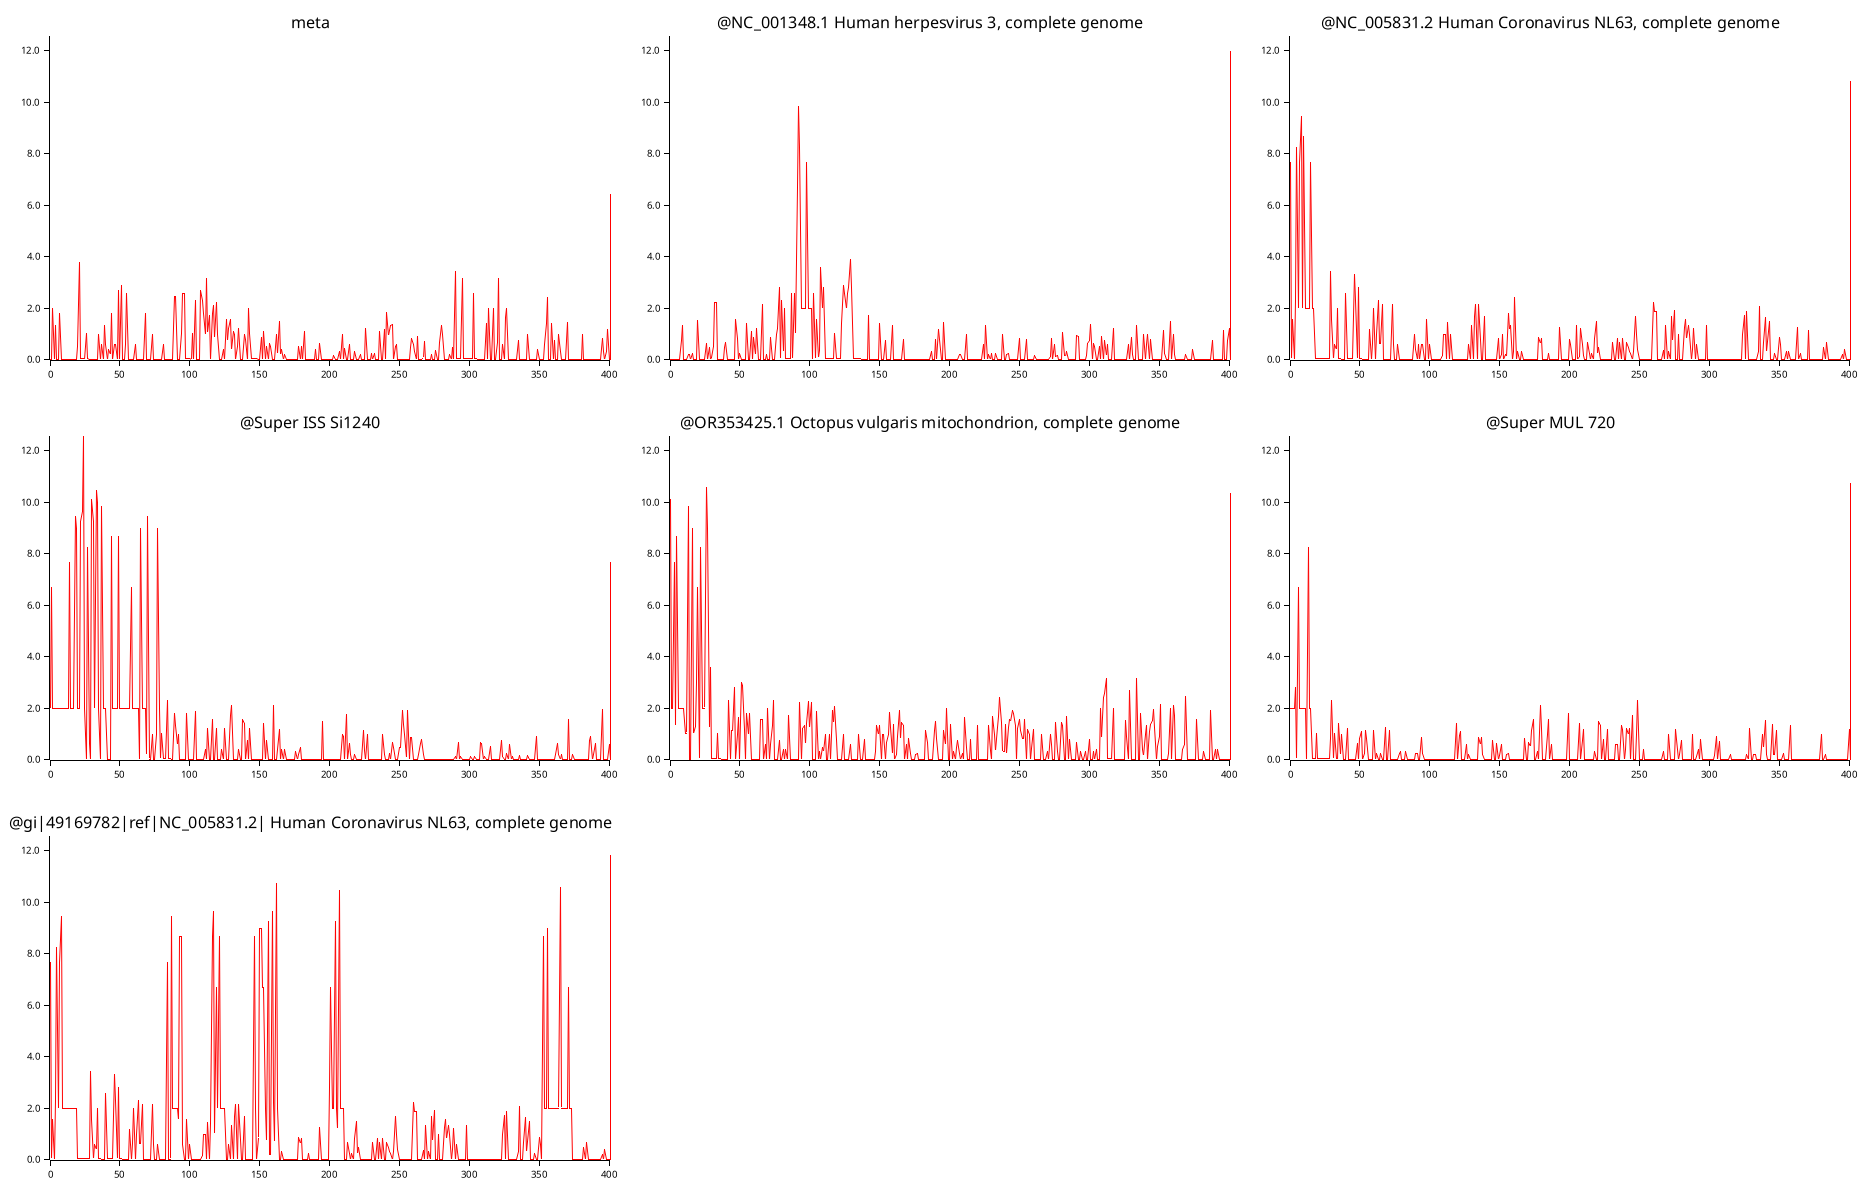
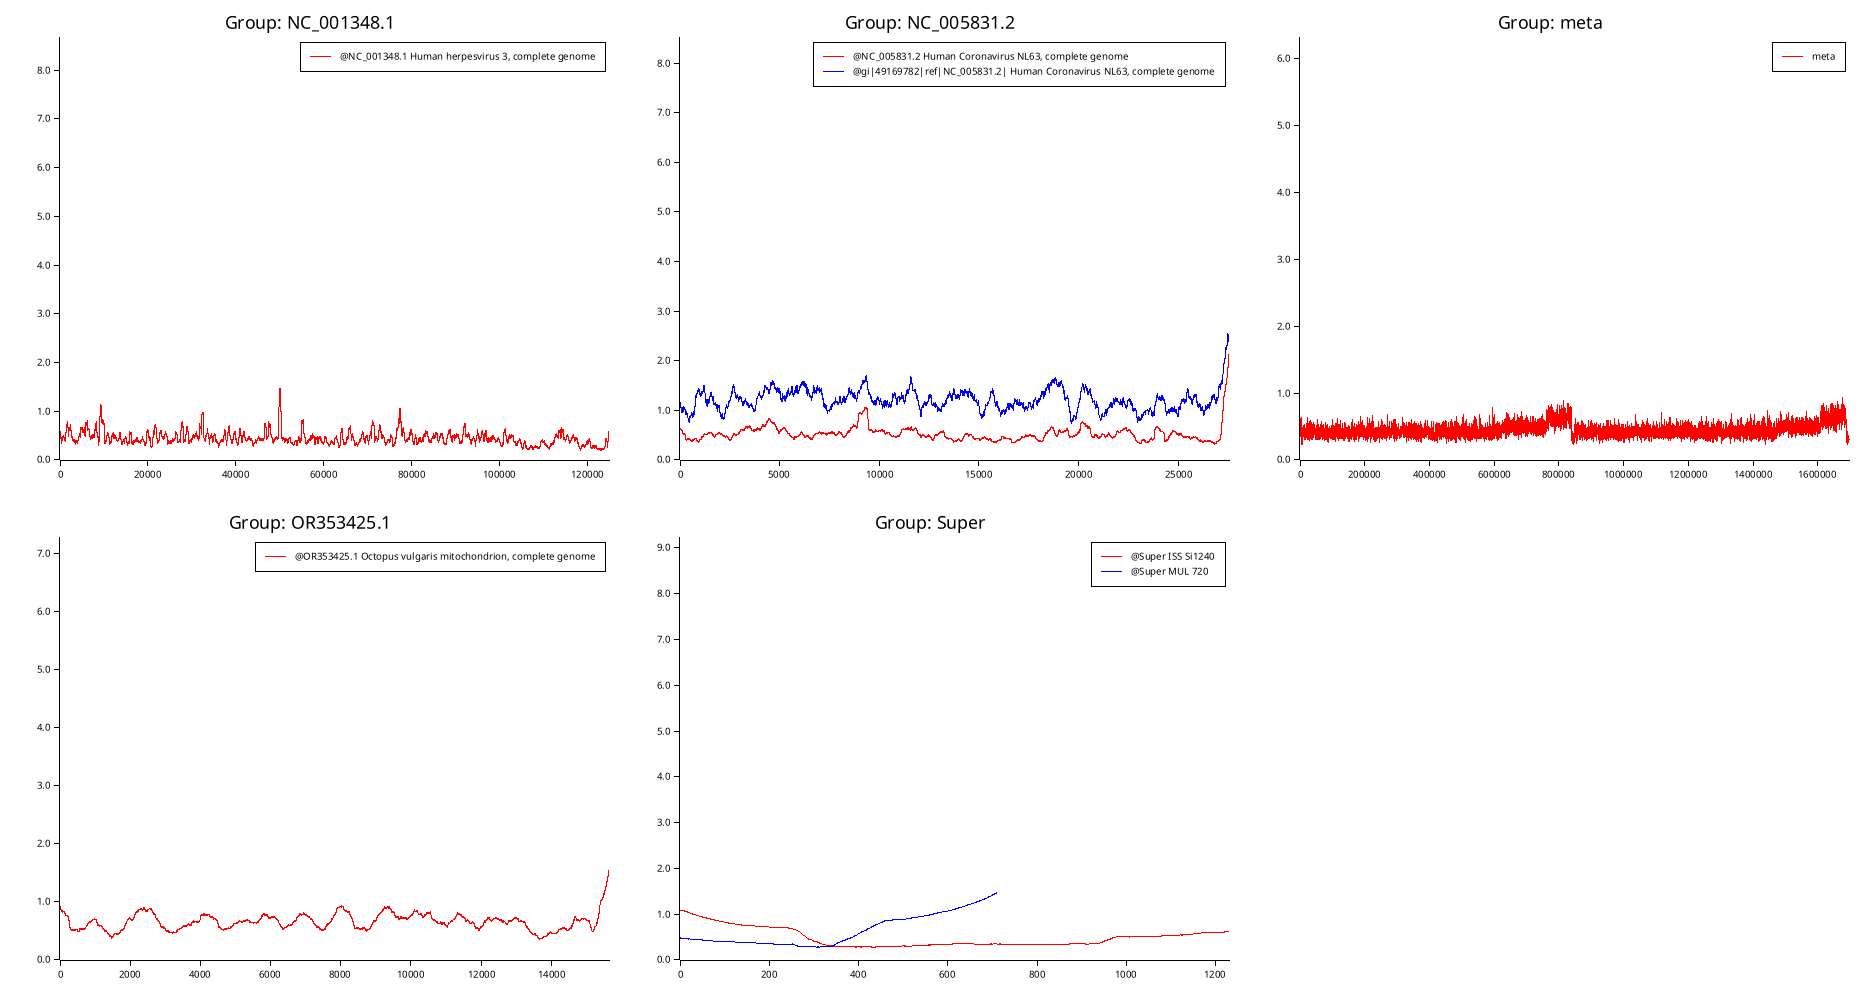
Enhance mutation sequence generation and chart visualization
- Updated generate_meta.sh to support multiple mutation percentages.
- Improved chart_generator.rs to group profiles and enhance visualization with new color palette.
- Added regex dependency in Cargo.toml for identifier extraction.
- Updated complexity_profiles.png for better representation.

diff --git a/src/chart_generator.rs b/src/chart_generator.rs
@@ -1,5 +1,5 @@
 use std::collections::HashMap;
-use plotters::prelude::*;
+use plotters::{prelude::*, style::full_palette::{ORANGE, PURPLE}};
 
 pub struct ChartGenerator {
     data: HashMap<char, HashMap<char, f32>>,
@@ -82,39 +82,118 @@ impl ChartGenerator {
         profiles: Vec<(&str, Vec<f64>)>,
         output_path: &str,
     ) -> Result<(), Box<dyn std::error::Error>> {
+
+        let grouped_profiles = Self::group_by_identifier(profiles);
+
         let cols = 3; // how many charts per row
-        let rows = (profiles.len() as f32 / cols as f32).ceil() as usize;
+        let rows = (grouped_profiles.len() as f32 / cols as f32).ceil() as usize;
     
-        let root = BitMapBackend::new(output_path, (1860, 400 * rows as u32)).into_drawing_area();
+        let root = BitMapBackend::new(output_path, (1860, 500 * rows as u32)).into_drawing_area();
         root.fill(&WHITE)?;
     
         let areas = root.split_evenly((rows, cols));
+
+        let colors = [
+            &RED, &BLUE, &GREEN, &MAGENTA, &BLACK, &ORANGE, &PURPLE, &PURPLE
+        ];
     
-        let max_val = profiles
-            .iter()
-            .flat_map(|(_, p)| p.iter().cloned())
-            .fold(0f64, f64::max);
-    
-        for ((name, profile), area) in profiles.into_iter().zip(areas) {
-            let max_len: usize = 400;
-    
+        for ((group_id, profiles_in_group), area) in grouped_profiles.into_iter().zip(areas) {
+            let max_len = profiles_in_group
+                .iter()
+                .map(|(_, p)| p.len())
+                .max()
+                .unwrap_or(100);
+
+            let max_val = profiles_in_group
+                .iter()
+                .flat_map(|(_, p)| p.iter().cloned())
+                .fold(0f64, f64::max);
+
             let mut chart = ChartBuilder::on(&area)
                 .margin(10)
-                .caption(name, ("sans-serif", 20))
+                .caption(format!("Group: {}", group_id), ("sans-serif", 22))
                 .x_label_area_size(30)
-                .y_label_area_size(40)
+                .y_label_area_size(50)
                 .build_cartesian_2d(0..max_len, 0f64..max_val)?;
-    
+
             chart.configure_mesh().disable_mesh().draw()?;
-    
-            chart.draw_series(LineSeries::new(
-                profile.iter().enumerate().map(|(x, y)| (x, *y)),
-                &RED,
-            ))?;
+
+            for (i, (name, original_profile)) in profiles_in_group.iter().enumerate() {
+                let profile = Self::smooth_profile(original_profile, 500);
+                chart
+                    .draw_series(LineSeries::new(
+                        profile.iter().enumerate().map(|(x, y)| (x, *y)),
+                        colors[i % colors.len()],
+                    ))?
+                    .label(*name)
+                    .legend(move |(x, y)| {
+                        PathElement::new(vec![(x, y), (x + 20, y)], colors[i % colors.len()])
+                    });
+            }
+
+            chart
+                .configure_series_labels()
+                .position(SeriesLabelPosition::UpperRight)
+                .background_style(WHITE)
+                .border_style(&BLACK)
+                .draw()?;
         }
-    
+
         Ok(())
     }
     
+    /// Group by matching identifiers
+    fn group_by_identifier<'a>(profiles: Vec<(&'a str, Vec<f64>)>) -> HashMap<String, Vec<(&'a str, Vec<f64>)>> {
+        let mut groups: HashMap<String, Vec<(&str, Vec<f64>)>> = HashMap::new();
+
+        for (name, profile) in profiles {
+            let id = Self::extract_identifier(name);
+            groups.entry(id).or_default().push((name, profile));
+        }
+
+        groups
+    }
+
+    fn extract_identifier(name: &str) -> String {
+        let re = regex::Regex::new(r"(NC|OR|Super)[_\d]+(?:\.\d+)?").unwrap();
+
+        if let Some(captures) = re.find(name) {
+            return captures.as_str().to_string();
+        }
+
+        // Fallback: look for ref|ID| format
+        if let Some(start) = name.find("ref|") {
+            if let Some(end) = name[start + 4..].find('|') {
+                return name[start + 4..start + 4+ end].to_string();
+            }
+        }
+
+        // Otherwise, fallback to first word
+        name.trim_start_matches('@')
+            .split_whitespace()
+            .next()
+            .unwrap_or("Unknown")
+            .to_string()
+
+    }
+
+    fn smooth_profile(profile: &[f64], window_size: usize) -> Vec<f64> {
+        if window_size < 2 {
+            return profile.to_vec();
+        }
+
+        let mut smoothed = Vec::with_capacity(profile.len());
+
+        for i in 0..profile.len() {
+            let star = i.saturating_sub(window_size / 2);
+            let end = usize::min(i + window_size / 2 + 1, profile.len());
+
+            let window = &profile[star..end];
+            let avg = window.iter().sum::<f64>() / window.len() as f64;
+            smoothed.push(avg);
+        }
+
+        smoothed
+    }
 
 }
